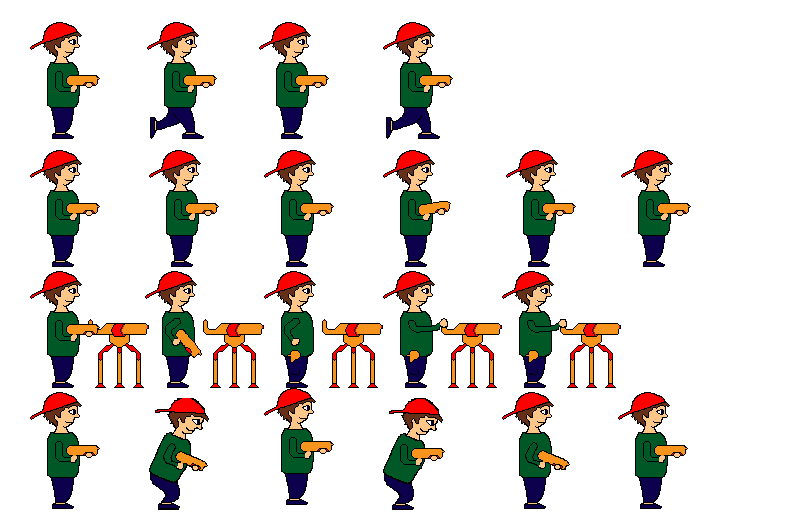
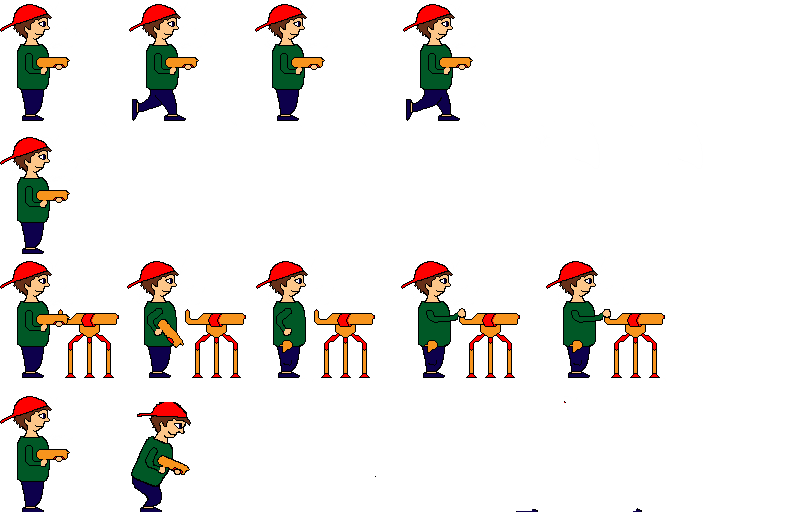
level 4 almost done jut need to attack and fix hitboxes

Changed region(s): [[0.0, 0.0, 0.8855, 1.0], [0.7939, 0.2812, 0.8855, 0.5312]]

diff --git a/JimmysCardboardCastle/Robert.cpp b/JimmysCardboardCastle/Robert.cpp
@@ -21,17 +21,17 @@ Robert::Robert(double x, double y) : PhysicsSprite("images/spr_robert.png")
 	setNumberOfAnimations(4);
 	setSpriteFrameSize(128,128);
 
-	addSpriteAnimRow(0, 0, 384, 128, 0, 2); // standing animation - 0
+	addSpriteAnimRow(0, 0, 256, 128, 0, 1); // standing animation - 0
 	setAnimationSpeed(0, 0.1);
 
-	addSpriteAnimRow(1, 0, 256, 128, 0, 7); // walking animation - 1
+	addSpriteAnimRow(1, 0, 384, 128, 0, 4); // walking animation - 1
 	setAnimationSpeed(1, 0.25);
 
-	addSpriteAnimRow(2, 0, 128, 128, 0, 7); // attacking animation - 2
+	addSpriteAnimRow(2, 0, 128, 128, 0, 5); // attacking animation - 2
 	setAnimationSpeed(2, 0.25);
 	setAnimationLoop(2, false);
 
-	addSpriteAnimRow(3, 0, 0, 128, 0, 1); // hit animation - 3
+	addSpriteAnimRow(3, 0, 0, 128, 0, 2); // hit animation - 3
 	setAnimationSpeed(3, 0.1);
 	setAnimationLoop(3, false);
 
